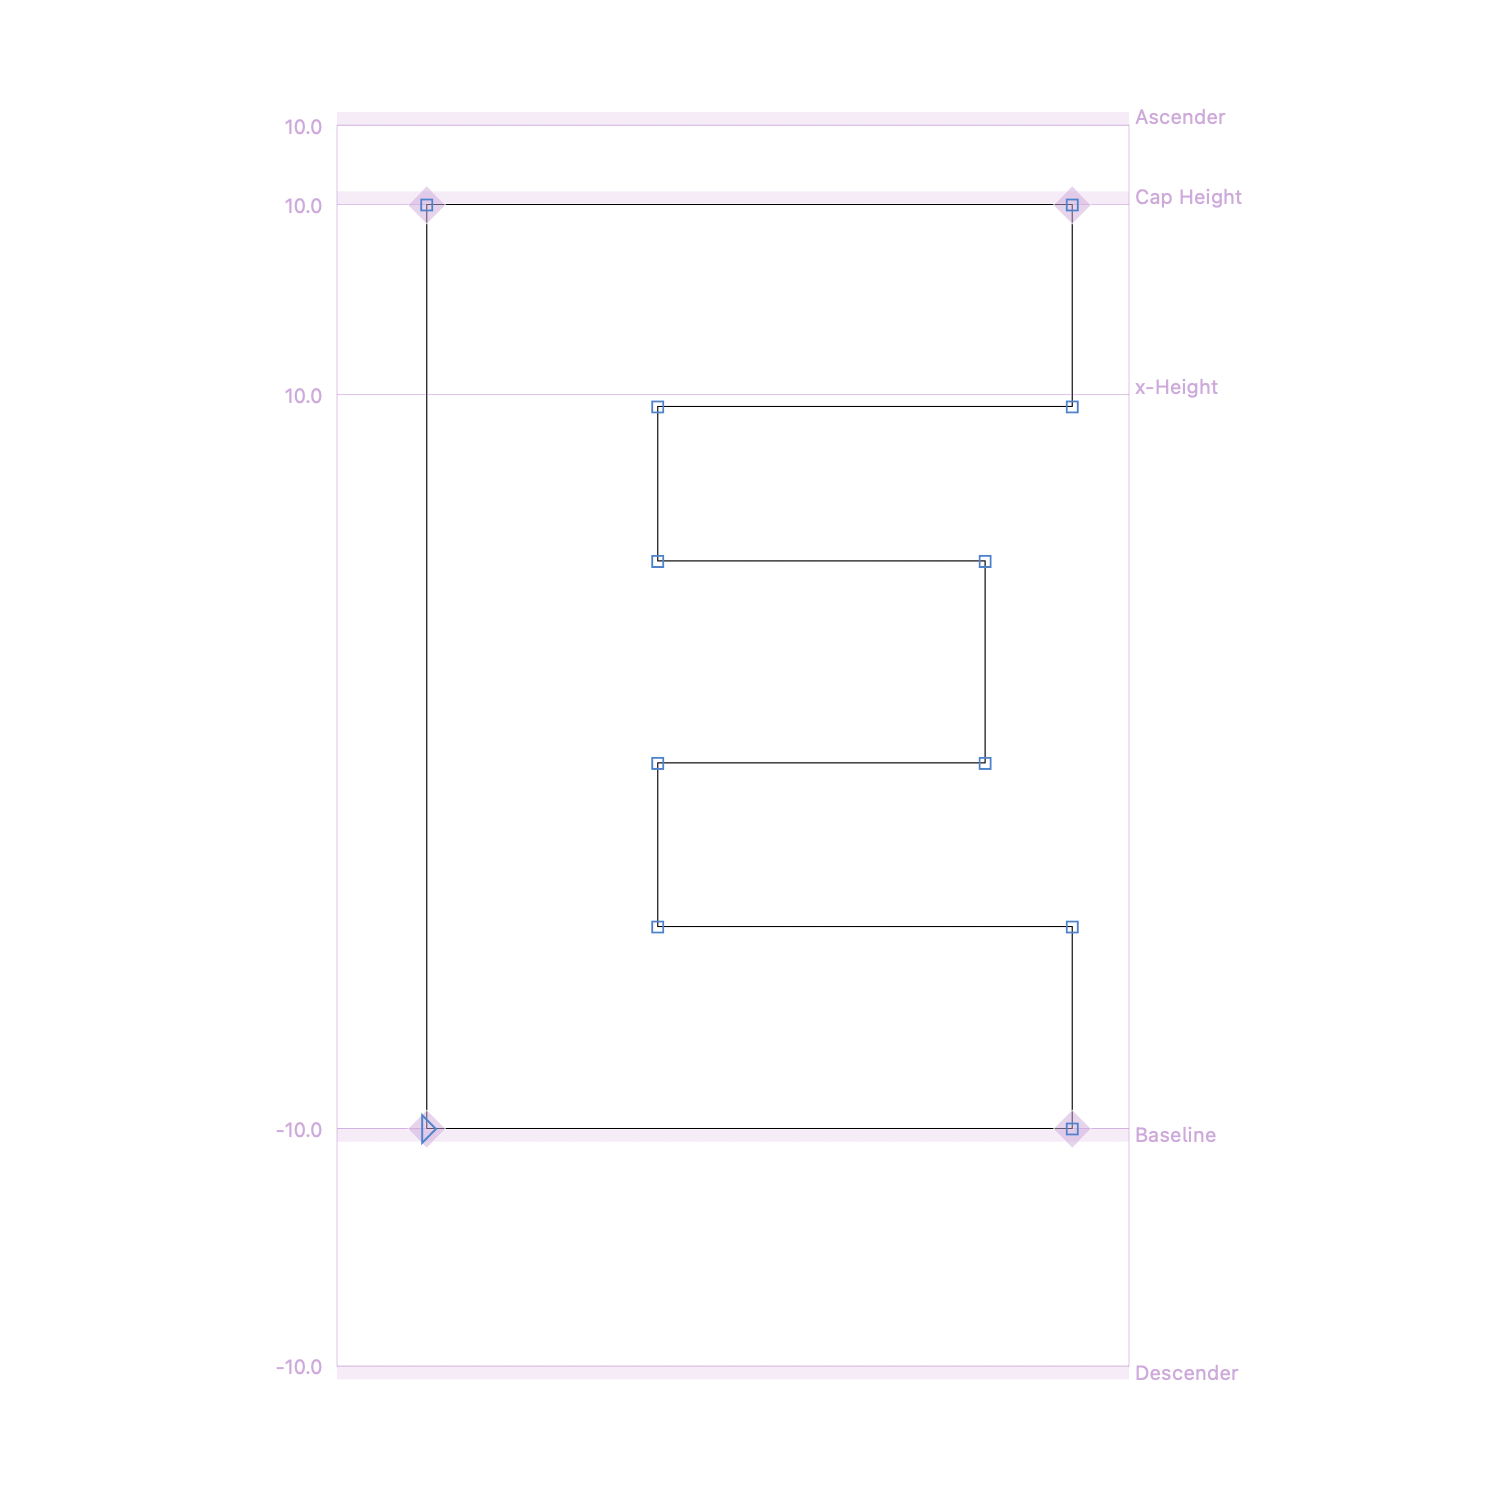
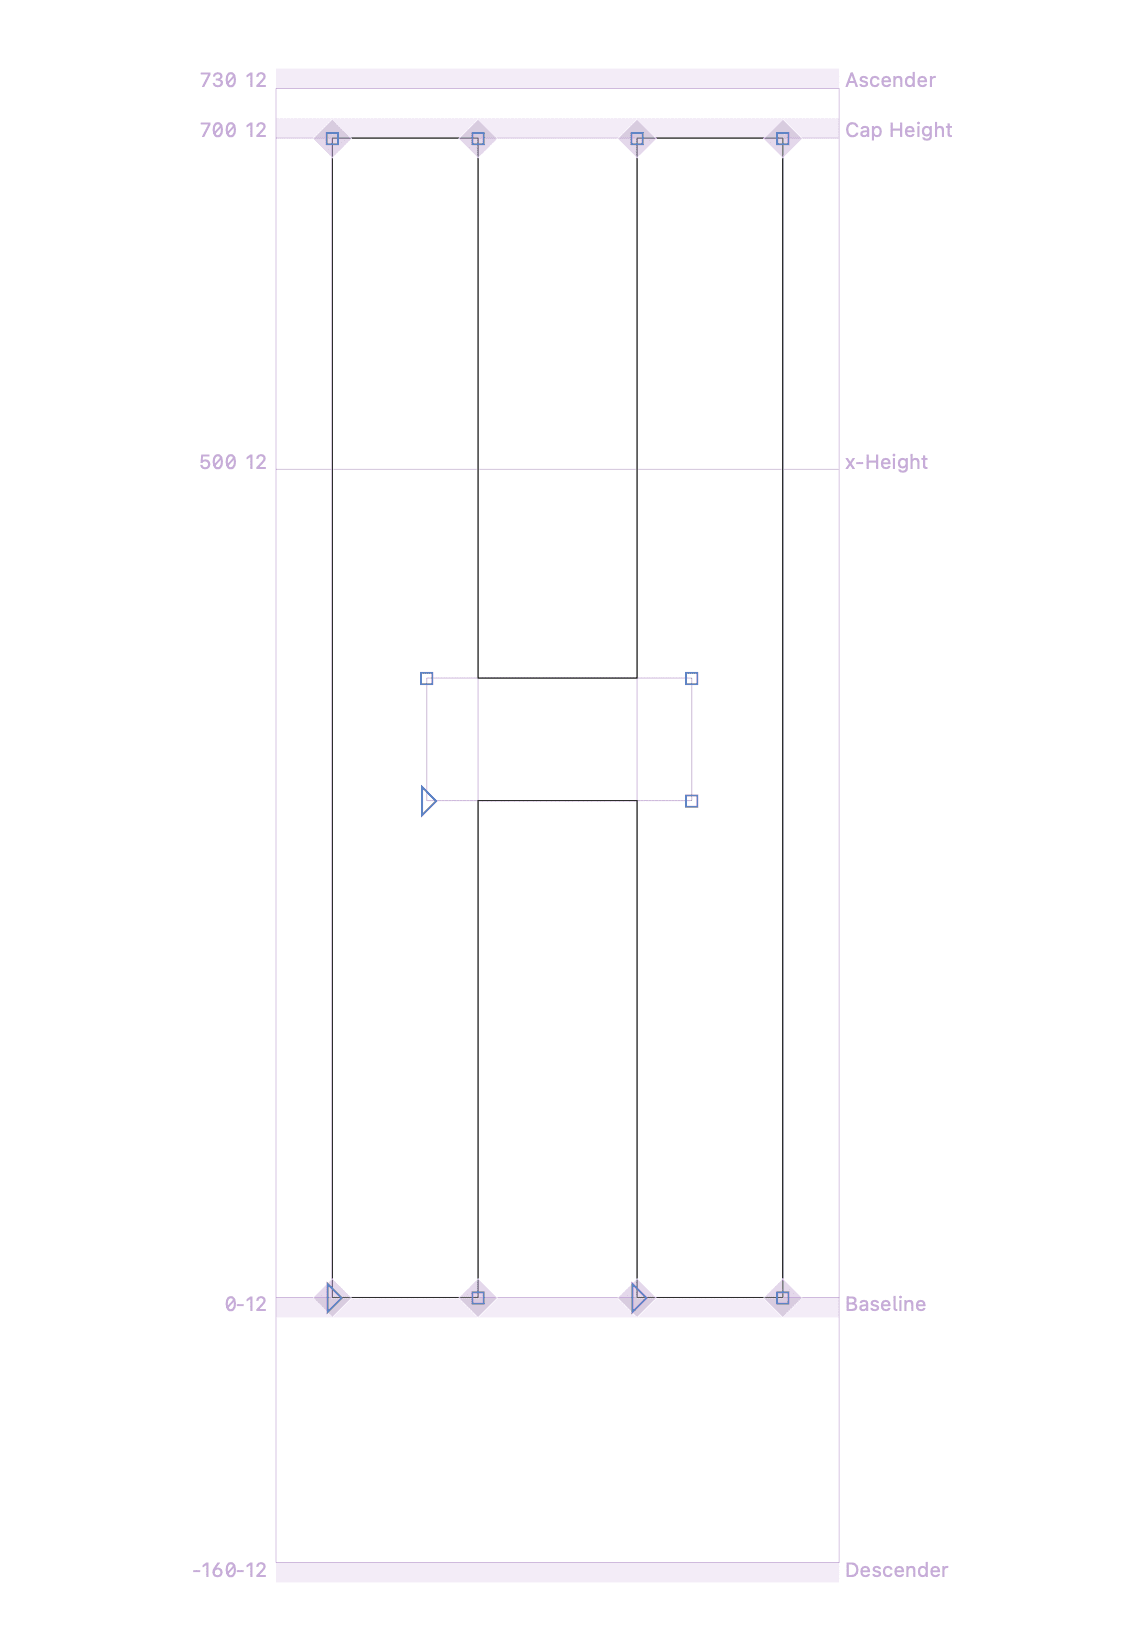
add zone position, new image, readme update

diff --git a/Alignment Zone Sizes.glyphsReporter/Contents/Resources/plugin.py b/Alignment Zone Sizes.glyphsReporter/Contents/Resources/plugin.py
@@ -63,5 +63,11 @@ class AlignmentZoneSizes(ReporterPlugin):
 				pos.y += 4
 			else:
 				pos.y -= 3
-			string = NSString.stringWithString_(str(int(zone.size)))
+
+			string = NSString.stringWithString_(str(int(zone.size)) )
+			string2 = NSString.stringWithString_(str(int(zone.position)) )
+			
 			string.drawAtPoint_color_alignment_handleSize_(pos, fontcolor, 5, -1)
+			
+			pos.x = pos.x -15
+			string2.drawAtPoint_color_alignment_handleSize_(pos, fontcolor, 5, -1)

diff --git a/README.md b/README.md
@@ -1,5 +1,7 @@
 # Show-Alignment-Zone-Sizes
-Glyphs 3 Reporter plugin to show Alignment Zone sizes in Edit View. Useful for flipping through masters and checking inconsistencies. Activate in the View menu, or add to Reporter Toggler.
+Glyphs 3 Reporter plugin to show Alignment Zone sizes and position in Edit View. Useful for flipping through masters and checking inconsistencies. Activate in the View menu, or add to Reporter Toggler.
 
 ![Screenshot](Show-Alignment-Zone-Sizes.png)
+
+Thanks to Georg Seifert for impoving the code!
 
